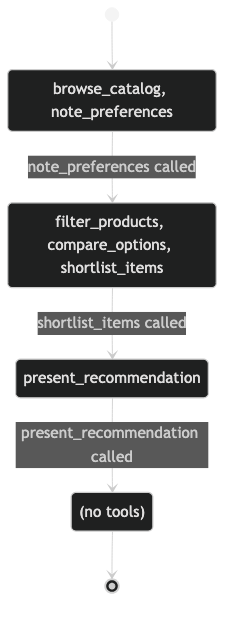
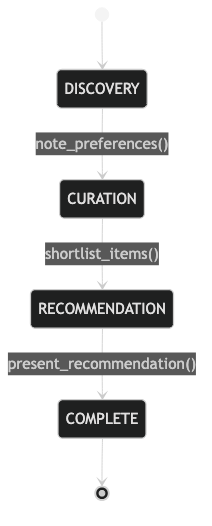
docs: simplify diagrams to match sketch style, fix blog post accuracy
- Diagrams reduced to minimal decision/inject/invoke pattern
- Phase steering: separate model-call and tool-call flows
- Blog post: updated wrap_tool_call section with transition gate
- Added before_agent/after_agent to middleware crash course

diff --git a/python/behavior-steering-middleware/src/bsm_examples/phase_steering/DIAGRAM.md b/python/behavior-steering-middleware/src/bsm_examples/phase_steering/DIAGRAM.md
@@ -1,45 +1,24 @@
-# Tool-Triggered Phase Steering
+# Phase Steering
 
-## wrap_model_call -- Inject Phase Guidance
+## Before Each LLM Call
 
 ```mermaid
 flowchart TD
-    A[/"wrap_model_call receives request"/] --> B["Look up PhaseBehavior<br/>for current phase"]
-    B --> C["Build guidance: phase name,<br/>allowed tools, completion criteria"]
-    C --> D["Inject &lt;framework_instruction&gt;<br/>into last HumanMessage"]
-    D --> E[Call LLM]
-    E --> F["Increment iteration counters"]
-    F --> G[Return state updates]
-
-    style D fill:#f9e2af,color:#1e1e2e
+    A(["Incoming User Message"]) --> B(["Inject framework_instruction<br/>phase guidance<br/>into User Msg"])
+    B --> C(["Invoke LLM"])
 ```
 
-## wrap_tool_call -- Gate Tools and Trigger Transitions
+## On Each Tool Call
 
 ```mermaid
 flowchart TD
-    A[/"wrap_tool_call receives request"/] --> B{"Transition<br/>pending?"}
-
-    B -- Yes --> C["Block tool: return<br/>&lt;framework_instruction&gt;<br/>report to user first"]
-
-    B -- No --> D{"Tool in phase<br/>allow-list?"}
-    D -- No --> E["Block tool: return error<br/>listing permitted tools"]
-
-    D -- Yes --> F[Execute tool]
-    F --> G{"Trigger tool<br/>for this phase?"}
-
-    G -- Yes --> H["Advance phase<br/>Set transition_pending = true"]
-    H --> I["Append &lt;framework_instruction&gt;<br/>transition notice to result"]
-
-    G -- No --> J[Return tool result]
-    I --> J
-
-    style B fill:#89b4fa,color:#1e1e2e
-    style D fill:#89b4fa,color:#1e1e2e
-    style G fill:#89b4fa,color:#1e1e2e
-    style C fill:#f38ba8,color:#1e1e2e
-    style E fill:#f38ba8,color:#1e1e2e
-    style I fill:#f9e2af,color:#1e1e2e
+    A(["Agent Calls Tool"]) --> B{"Tool allowed<br/>in current<br/>phase?"}
+    B -- No --> C(["Block tool call"])
+    B -- Yes --> D(["Execute tool"])
+    D --> E{"Trigger tool<br/>for phase<br/>transition?"}
+    E -- No --> F(["Return result"])
+    E -- Yes --> G(["Advance phase<br/>Block further tools<br/>until next user turn"])
+    G --> F
 ```
 
 ## Phase Progression
@@ -47,18 +26,8 @@ flowchart TD
 ```mermaid
 stateDiagram-v2
     [*] --> DISCOVERY
-    DISCOVERY --> CURATION : note_preferences called
-    CURATION --> RECOMMENDATION : shortlist_items called
-    RECOMMENDATION --> COMPLETE : present_recommendation called
+    DISCOVERY --> CURATION : note_preferences()
+    CURATION --> RECOMMENDATION : shortlist_items()
+    RECOMMENDATION --> COMPLETE : present_recommendation()
     COMPLETE --> [*]
-
-    DISCOVERY : browse_catalog, note_preferences
-    CURATION : filter_products, compare_options, shortlist_items
-    RECOMMENDATION : present_recommendation
-    COMPLETE : (no tools)
 ```
-
-## Lifecycle Note
-
-The `before_agent` hook clears `transition_pending` at the start of each agent
-invocation, reopening the tool gate for the new phase.

diff --git a/python/behavior-steering-middleware/src/bsm_examples/turn_urgency/DIAGRAM.md b/python/behavior-steering-middleware/src/bsm_examples/turn_urgency/DIAGRAM.md
@@ -1,37 +1,10 @@
-# Turn Urgency Middleware
+# Turn Urgency
 
 ```mermaid
 flowchart TD
-    A[/"wrap_model_call receives request"/] --> B["Count turns from message history"]
-    B --> C{"Determine urgency level<br/>from remaining budget"}
-
-    C --> D["EXPLORATION > 60%"]
-    C --> E["BALANCED 30-60%"]
-    C --> F["EFFICIENCY 1-30%"]
-    C --> G["TERMINAL 0%"]
-
-    D --> H
-    E --> H
-    F --> H
-
-    G --> I{"Completion tool<br/>already called?"}
-    I -- No --> J["Append forceful escalation:<br/>You MUST call completion tool NOW"]
-    I -- Yes --> H
-
-    J --> H["Build urgency guidance"]
-    H --> K["Inject &lt;framework_instruction&gt;<br/>into last Human/ToolMessage"]
-
-    K --> L[Call LLM]
-    L --> M{"Scan response for<br/>completion tool call"}
-
-    M -- Found --> N["Mark completion tool seen"]
-    M -- Not found --> O[No change]
-
-    N --> P[Return state updates]
-    O --> P
-
-    style C fill:#89b4fa,color:#1e1e2e
-    style I fill:#89b4fa,color:#1e1e2e
-    style K fill:#f9e2af,color:#1e1e2e
-    style J fill:#f38ba8,color:#1e1e2e
+    A(["Incoming User Message"]) --> B{"Turn budget<br/>threshold<br/>crossed?"}
+    B -- No --> C(["Forward<br/>Original Message"])
+    B -- Yes --> D(["Inject framework_instruction<br/>urgency guidance<br/>into User Msg"])
+    C --> E(["Invoke LLM"])
+    D --> E
 ```

diff --git a/python/behavior-steering-middleware/src/bsm_examples/drift_detection/DIAGRAM.md b/python/behavior-steering-middleware/src/bsm_examples/drift_detection/DIAGRAM.md
@@ -2,25 +2,9 @@
 
 ```mermaid
 flowchart TD
-    A[/"wrap_model_call receives request"/] --> B{"should_intervene?<br/>silent turns >= threshold<br/>AND budget remaining<br/>AND cooldown elapsed"}
-
-    B -- Yes --> C[/"Build reminder from template"/]
-    C --> D["Inject &lt;framework_instruction&gt;<br/>into last Human/ToolMessage"]
-    D --> E["Record intervention<br/>(increment count, reset cooldown)"]
-
-    B -- No --> F
-
-    E --> F[Call LLM]
-    F --> G["Scan response for<br/>target tool call"]
-
-    G --> H{"Target tool<br/>found?"}
-    H -- Yes --> I["Reset silent turn counter"]
-    H -- No --> J["Increment silent turn counter"]
-
-    I --> K[Return state updates]
-    J --> K
-
-    style B fill:#89b4fa,color:#1e1e2e
-    style D fill:#f9e2af,color:#1e1e2e
-    style E fill:#f9e2af,color:#1e1e2e
+    A(["Incoming User Message"]) --> B{"Silent turns<br/>exceeded<br/>threshold?"}
+    B -- No --> C(["Forward<br/>Original Message"])
+    B -- Yes --> D(["Inject framework_instruction<br/>reminder into User Msg"])
+    C --> E(["Invoke LLM"])
+    D --> E
 ```
